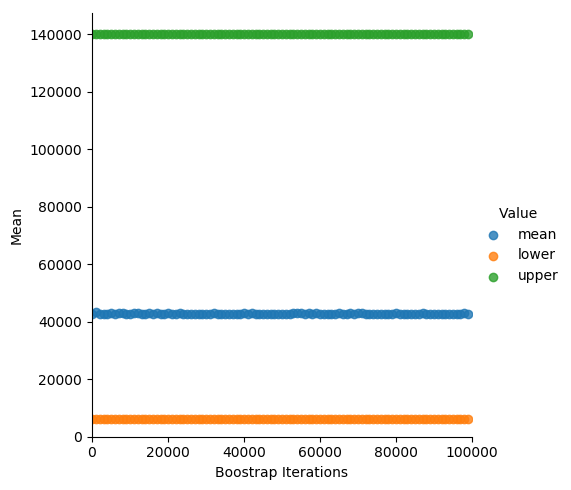
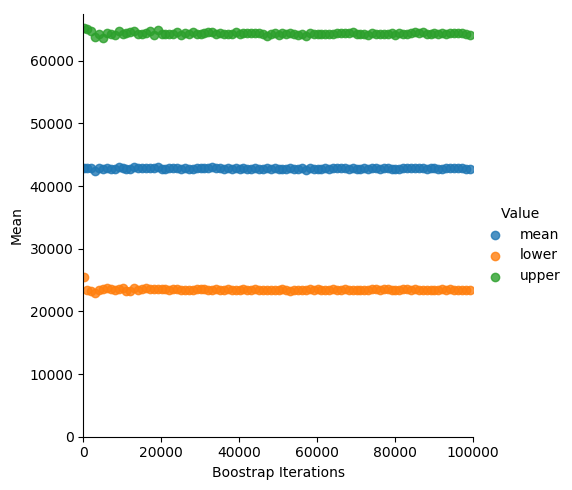
fixed error in boostrap function in bootstrap

diff --git a/Lab2/pt2_vehic_bootstrap.py b/Lab2/pt2_vehic_bootstrap.py
@@ -1,0 +1,42 @@
+import matplotlib
+matplotlib.use('Agg')
+import pandas as pd
+import seaborn as sns
+import numpy as np
+import random
+from bootstrap import boostrap
+
+
+def run(data, iter):
+	boots = []
+	for i in range(100, 100000, 1000):
+		boot = boostrap(data, data.shape[0], i, 95, 5)
+		boots.append([i, boot[0], "mean"])
+		boots.append([i, boot[1], "lower"])
+		boots.append([i, boot[2], "upper"])
+
+	df_boot = pd.DataFrame(boots, columns=['Boostrap Iterations', 'Mean', "Value"])
+	sns_plot = sns.lmplot(df_boot.columns[0], df_boot.columns[1], data=df_boot, fit_reg=False, hue="Value")
+
+	sns_plot.axes[0, 0].set_ylim(0,)
+	sns_plot.axes[0, 0].set_xlim(0, 100000)
+
+	sns_plot.savefig("bootstrap_confidence{}.png".format(iter), bbox_inches='tight')
+	sns_plot.savefig("bootstrap_confidence{}.pdf".format(iter), bbox_inches='tight')
+
+
+	print ("Mean: {}".format(np.mean(data)))
+	print ("Var: {}".format(np.var(data)))
+
+
+if __name__ == "__main__":
+	df = pd.read_csv('./vehicles.csv')
+
+	run(df.values.T[0], 0)
+	
+	run(df.values.T[1], 1)
+	
+	
+
+
+	

diff --git a/Lab2/bootstrap.py b/Lab2/bootstrap.py
@@ -9,15 +9,14 @@ import random
 
 def boostrap(sample, sample_size, iterations, cl_upper, cl_lower):
 	# create the bootstraps
-	new_samples = []
+	new_samples = np.random.choice(sample, (iterations, sample_size), replace=True)
+	
 	mean = []
 	for iteration in range(iterations):
-		x = []
-		for j in range(sample_size):
-			x.append(sample[random.randint(0,len(sample)-1)])
-		new_samples.append(x)
-		mean.append(new_samples[iteration:])
+		mean.append(np.mean(new_samples[iteration, :]))
+	mean = np.asarray(mean)
 	
+		
 	data_mean = np.mean(new_samples)
 	upper = np.percentile(mean, cl_upper)
 	lower = np.percentile(mean, cl_lower)
